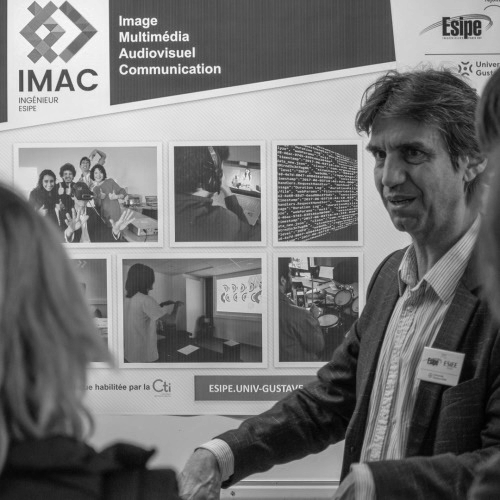
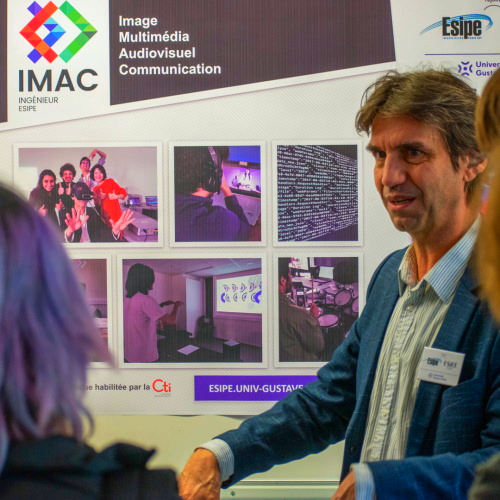
finished normalisation

diff --git a/src/main.cpp b/src/main.cpp
@@ -509,16 +509,14 @@ void tramage(sil::Image& image)
 //
 }
 
-// Marche mais en noir et blanc... bof
 void normalisation(sil::Image& image)
 {
     float recordDark = 2.f;
     float recordLight = -1.f;
 
     // On cherche le pixel le plus lumineux et le plus sombre
-    for (int i {}; i < image.pixels().size(); ++i)
+    for (glm::vec3& pix : image.pixels())
     {
-        glm::vec3 pix = image.pixels()[i];
         float b = (pix.r + pix.g + pix.b) / 3.f; // Brightness
 
         if (b < recordDark) // Si la luminosité est plus grande que le record, il le devient
@@ -530,14 +528,21 @@ void normalisation(sil::Image& image)
             recordLight = b;
         }
     }
+
     // Pour chaque pixel, on adapte la luminosité en fonction des extrêmes
     for (glm::vec3& pix : image.pixels())
     {
-        float b = (pix.r + pix.g + pix.b) / 3.f; // Brightness
-        float newLum = (b - recordDark)/(recordLight - recordDark);
+        float newR = (pix.r - recordDark)/(recordLight - recordDark);
+        float newG = (pix.g - recordDark)/(recordLight - recordDark);
+        float newB = (pix.b - recordDark)/(recordLight - recordDark);
 
-        pix = glm::vec3(newLum);
+        pix = glm::vec3(newR, newG, newB);
     }
+}
+
+void vortex(sil::Image& image)
+{
+//
 }
 
 int main()
@@ -568,7 +573,7 @@ int main()
 
     {
         sil::Image image{"images/photo_faible_contraste.jpg"};
-        normalisation(image);
-        image.save("output/normalisation_de_histogramme.png");
+        vortex(image);
+        image.save("output/vortex.png");
     }
 }

diff --git a/README.md b/README.md
@@ -79,3 +79,24 @@ J'ai laissé une fonction différente par étape de mosaïques afin de laisser m
 ## Exercice 16 :
 ![alt text](./output/degrade_couleur.png)
 ![alt text](./output/degrade_couleur_ameliore.png)
+
+## Exercice 17 :
+
+## Exercice 18 :
+Au début, j'avais la logique suivante :
+```
+void normalisation(sil::Image& image)
+{
+    ...
+    // Pour chaque pixel, on adapte la luminosité en fonction des extrêmes
+    for (glm::vec3& pix : image.pixels())
+    {
+        float b = (pix.r + pix.g + pix.b) / 3.f; // Brightness
+        float newLum = (b - recordDark)/(recordLight - recordDark);
+
+        pix = glm::vec3(newLum);
+    }
+}
+```
+Je normalisais donc la luminorisité de toutes les composantes en même temps (et non pas chaque composante individuellement) ce qui me donnait un rendu en gris. Après plusieurs essais, j'ai donc séparé les composantes.
+![alt text](./output/normalisation_de_histogramme.png)
